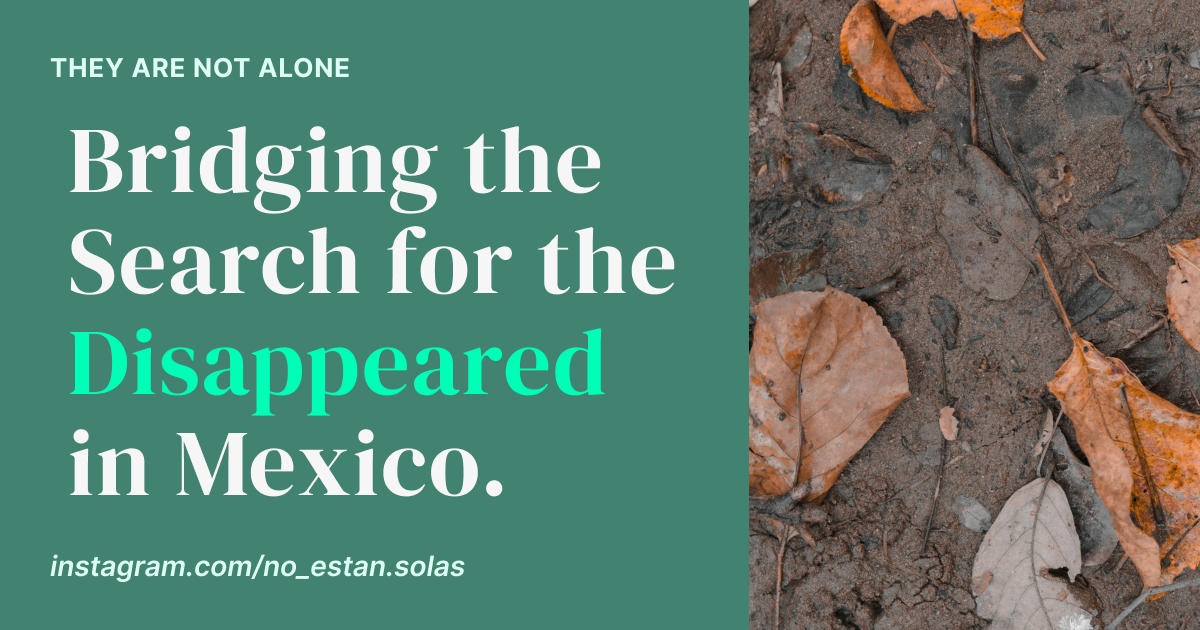
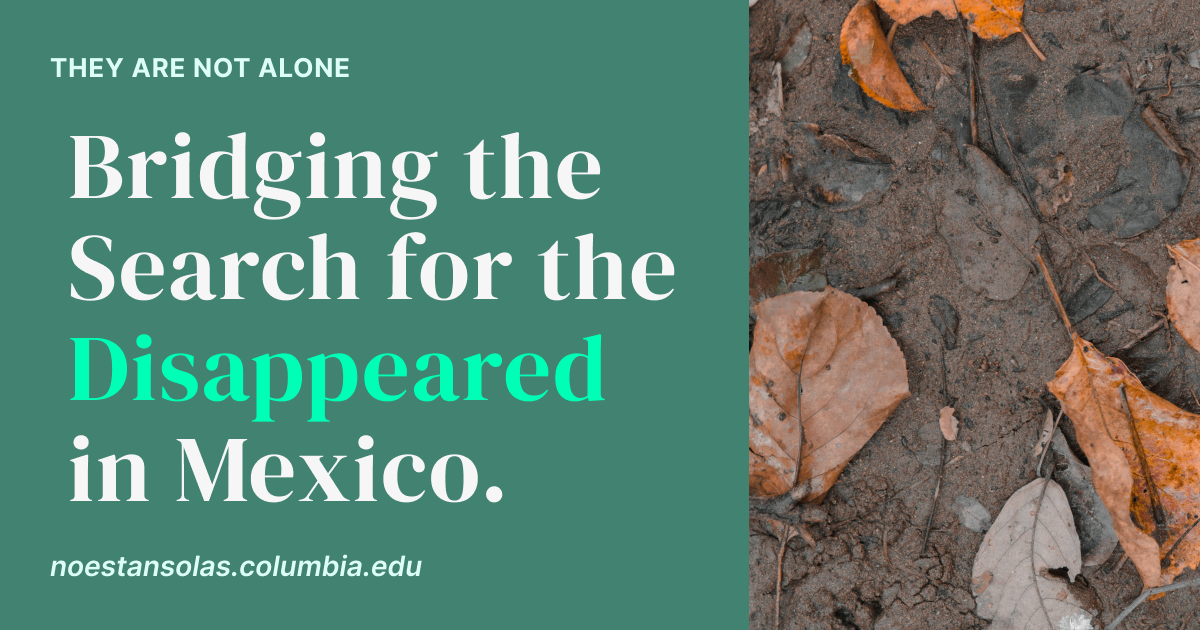
generales

diff --git a/_sass/_bs.scss b/_sass/_bs.scss
@@ -695,9 +695,8 @@ div#about {
   }
   div.pink {
     background-color: #F0E1EB;
-    padding: 40px 60px;
+    padding: 40px 60px 20px 60px;
   }
-
 }
 
 
@@ -706,7 +705,7 @@ div#about {
 
 
 .archivo {
-  margin: 30px 0 90px 0;
+  margin: 30px 0 60px 0;
   h3 {
     font-family: $body-font;
     color: $gray;
@@ -1345,30 +1344,39 @@ item pages (iiif + metadata)
   text-align: left;
   a {
     font-family: $body-font;
-    font-weight: bold;
-    font-size: 2.6em;
-    color: $red !important;
+    font-size: 24px;
+    text-align: center;
+    color: #fff !important;
     text-decoration: none !important;
-    background-color: transparent;
-    margin: 0 0 0 18px;
+    background-color: #428270;
+    display: block;
+    width: 40px;
+    height: 40px;
+    border-radius: 40px;
+    margin: 12px;
     &:hover{
-      color: $green_0 !important;
+      color: #00FFB6 !important;
     }
   }
 }
 
 #handlers {
   position: fixed;
-  top: 42%;
+  top: 40%;
   right: 120px;
-  background-color: #CAC6C5;
-  border-radius: 8px;
-  padding: 0 22px;
+  width: 10%;
   z-index: 99;
+  #prevlink {
+
+  }
 }
 
 .item-label {
-  margin: 40px 0 0px 0;
+  margin: 30px 0 0px 0;
+  font-family: $heading-font;
+  text-transform: none;
+  font-size: 38px;
+  letter-spacing: 0.5px;
 }
 
 .item-view {
@@ -1383,24 +1391,21 @@ item pages (iiif + metadata)
     position: relative;
     height:   $viewer-height;
     max-height: 80vh;
-    width:    100%;
+    width:    80%;
     margin:   $more-margin 0 $more-margin 0;
+    text-align: center;
     a {
       color: inherit !important;
     }
-
     li {
       font-size: 1em !important;
     }
-
     .item-full-image {
       max-width: $max-width;
       max-height: 100%;
       height: $viewer-height;
     }
   }
-
-
 
 }
 
@@ -1432,12 +1437,15 @@ item pages (iiif + metadata)
 .metadata-block {
   font-family: $body-font;
   max-width: 100%;
-  margin: 30px 0 60px 0;
+  margin: 20px 0 90px 20px;
+  border: 1px solid #fff;
+  padding: 10px 30px 20px 30px;
+  width: 60%;
   dt {
     font-size: 0.8rem;
     font-weight: 800;
     text-transform: uppercase;
-    margin: 12px 0 6px 0;
+    margin: 16px 0 0px 0;
   }
 }
 

diff --git a/_includes/sidebar.html b/_includes/sidebar.html
@@ -36,8 +36,6 @@
 </ul>
 </nav>
 
-
-
 <div id="guide"><a href="{{ '/guia/' | absolute_url }}" target="_self">
   <h2>{{ site.data[site.active_lang]["sidebar"].guide_1 }}:</h2>
   <h1>{{ site.data[site.active_lang]["sidebar"].guide_2 }}</h1>
@@ -46,7 +44,7 @@
 <p id="lang">
 <!-- jekyll-polyglot will process ferh= into href= through the static_href liquid block tag without relativizing the url; useful for making language navigation switchers  -->
 {% for language in site.languages %}
-<a {% if language == site.active_lang %}style="background-color: #DDFEF4; color: #000; text-decoration:none;"{% endif %} {% static_href %}href="{% if language == site.default_lang %}{{ "" | absolute_url}}{{page.url}}{% else %}{{"" | absolute_url}}/{{ language }}{{page.url}}{% endif %}"{% endstatic_href %} >
+<a {% if language == site.active_lang %}style="background-color: #00FFB6; color: #000; text-decoration:none;"{% endif %} {% static_href %}href="{% if language == site.default_lang %}{{ "" | absolute_url}}{{page.url}}{% else %}{{"" | absolute_url}}/{{ language }}{{page.url}}{% endif %}"{% endstatic_href %} >
   {% for i in site.data.languages %}
   {% if i.iso == language %}
     {% assign language_name = i.description %}

diff --git a/_layouts/entrevista_page.html b/_layouts/entrevista_page.html
@@ -31,11 +31,11 @@ layout: default
 {% endif %}
 
 
-<p>{{ site.data[site.active_lang]["global"].interview }}:</p>
+<p style="font-size:0.8rem; font-weight:800; text-transform: uppercase; margin: 0 0 8px 20px;">{{ site.data[site.active_lang]["global"].interview }}</p>
 <audio controls>
   <!--<source src="{{site.baseurl}}/assets/entrevistas/{{page.pid}}.mp3" type="audio/mpeg">-->
   <source src="https://bulabe.com/buscadoras/entrevistas/{{page.pid}}.mp3" type="audio/mpeg">
-Your browser does not support the audio element.
+  Your browser does not support the audio element.
 </audio>
 
 {% comment %}

diff --git a/_layouts/entrevista.html b/_layouts/entrevista.html
@@ -33,9 +33,9 @@ meta:
       value: page.disappearance_location
     - label: 'Colectivo'
       value: page.colectivo
-    - label: 'Entrevistador(a) y fotógrafo(a)'
+    - label: 'Entrevista e imagen'
       value: page.interviewers_and_camera
-    - label: 'Fecha entrevista'
+    - label: 'Fecha de la entrevista'
       value: page.interview_date
     - label: 'Región'
       value: page.location_region

diff --git a/_includes/item_metadata_polyglot.html b/_includes/item_metadata_polyglot.html
@@ -1,6 +1,5 @@
 
 <dl class='metadata-block'>
-
   {% for item in include.meta[site.active_lang] %}
     {% if item.value contains 'page.' %}
       {% assign key = item.value | remove: 'page.' %}

diff --git a/_sass/_wax.scss b/_sass/_wax.scss
@@ -366,12 +366,14 @@ item pages (iiif + metadata)
   }
 }
 
+/*
 #prevlink {
   float:left;
 }
 #nextlink {
   float: right;
 }
+*/
 
 .item-view {
   width:           110%;

diff --git a/index.en.md b/index.en.md
@@ -129,7 +129,7 @@ lang: en
   <div class="column">
     <h3>Directory</h3>
     <p>A database with contact information for collectives, civil society organizations, international organizations and government institutions, to facilitate connection, communication and access to information.</p><br/>
-    <a href="{{ '/directorio/' | absolute_url }}" class="bottom">Read</a>
+    <a href="{{ '/directorio/' | absolute_url }}" class="bottom">Read more</a>
   </div>  
 </div>
 </div></div>
@@ -158,7 +158,7 @@ lang: en
 <div class="content-container">
 <div class="archivo animatable fadeInUp">
   <p class="footer"><span>Last Update:</span> September, 2022.</p>
-  <p class="footer"><span>Contact:</span> bridgingthesearch@gmail.com </p>
+  <p class="footer"><span>Contact:</span> Noestansolas@columbia.edu</p>
   <p class="footer"><a href="https://www.instagram.com/no_estan.solas/?igshid=YmMyMTA2M2Y=" target="_blank">Instagram</a></p>
   <p class="footer"><a href="https://www.facebook.com/Bridging-the-Search-112376501363178/about/?ref=page_internal" target="_blank">Facebook</a></p>
 </div></div><!-- /content /archivo -->

diff --git a/pages/credits.en.md b/pages/credits.en.md
@@ -60,8 +60,17 @@ lang: en
 <dt>Security Protocols:</dt>
 <dd>Artículo 19</dd>
 </dl>
+</div>
 
-<p>We thank the interviewees for giving us the space, time, and above all, for sharing their knowledge and experiences in a heartbreaking context.</p>
+<div class="pink animatable fadeInUp">
+<p><strong>We thank the interviewees for giving us the space, time, and above all, for sharing their knowledge and experiences in a heartbreaking context.</strong></p>
+</div>
+
+<div class="archivo animatable fadeInUp">
+  <p class="footer"><span>Last Update:</span> September, 2022.</p>
+  <p class="footer"><span>Contact:</span> Noestansolas@columbia.edu</p>
+  <p class="footer"><a href="https://www.instagram.com/no_estan.solas/?igshid=YmMyMTA2M2Y=" target="_blank">Instagram</a></p>
+  <p class="footer"><a href="https://www.facebook.com/Bridging-the-Search-112376501363178/about/?ref=page_internal" target="_blank">Facebook</a></p>
 </div>
 
 <div class="archivo animatable fadeInUp">

diff --git a/pages/credits.es.md b/pages/credits.es.md
@@ -64,9 +64,17 @@ lang: es
 </dl>
 </div>
 
+
 <div class="pink animatable fadeInUp">
 <p><strong>Agradecemos a las personas entrevistadas por darnos el espacio y el tiempo y, sobre todo, por compartir sus saberes y experiencias ante un contexto desgarrador.</strong></p>
 </div>
+
+<div class="archivo animatable fadeInUp">
+  <p class="footer"><span>Última actualización:</span> Septiembre, 2022.</p>
+  <p class="footer"><span>Contáctanos:</span> Noestansolas@columbia.edu</p>
+  <p class="footer"><a href="https://www.instagram.com/no_estan.solas/?igshid=YmMyMTA2M2Y=" target="_blank">Instagram</a></p>
+  <p class="footer"><a href="https://www.facebook.com/Bridging-the-Search-112376501363178/about/?ref=page_internal" target="_blank">Facebook</a></p>
+</div><!-- /content /archivo -->
 
 
 <div class="archivo animatable fadeInUp">

diff --git a/index.md b/index.md
@@ -15,7 +15,6 @@ lang: es
 </div><!-- cover -->
 
 
-
 <div id="full_bg_image"></div>
 <!--
 <div id="carousel"><ul>
